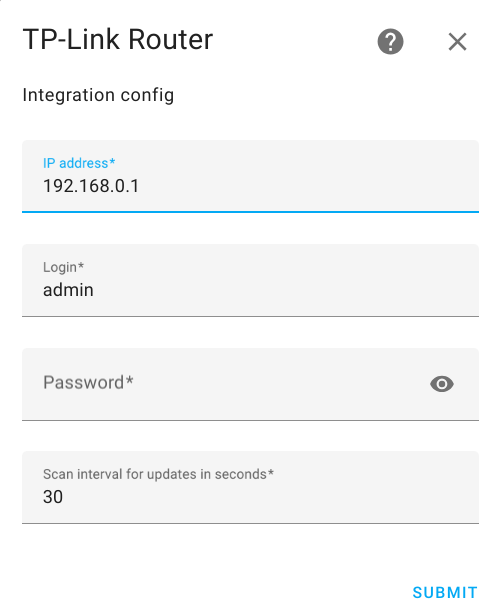
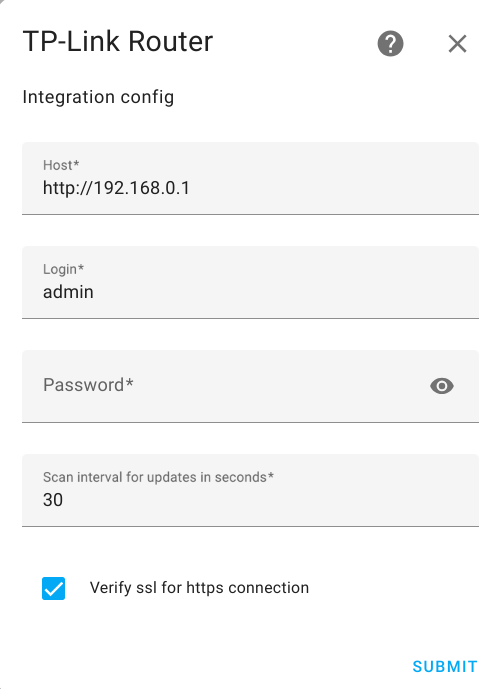
added CPU and RAM sensors

diff --git a/custom_components/tplink_router/switch.py b/custom_components/tplink_router/switch.py
@@ -10,13 +10,13 @@ from homeassistant.helpers.entity_platform import AddEntitiesCallback
 from .const import DOMAIN
 from homeassistant.helpers.update_coordinator import CoordinatorEntity
 from .coordinator import TPLinkRouterCoordinator
-from tplinkrouterc6u import TplinkRouter, Wifi, Status
+from tplinkrouterc6u import Wifi, Status
 from homeassistant.helpers.device_registry import DeviceInfo
 
 
 @dataclass
 class TPLinkRouterSwitchEntityDescriptionMixin:
-    method: Callable[[TplinkRouter, bool], Any]
+    method: Callable[[TPLinkRouterCoordinator, bool], Any]
     property: str
 
 
@@ -32,7 +32,7 @@ SWITCH_TYPES = (
         icon="mdi:wifi",
         entity_category=EntityCategory.CONFIG,
         property='guest_2g_enable',
-        method=lambda router, value: router.set_wifi(Wifi.WIFI_GUEST_2G, value),
+        method=lambda coordinator, value: coordinator.set_wifi(Wifi.WIFI_GUEST_2G, value),
     ),
     TPLinkRouterSwitchEntityDescription(
         key="wifi_guest_5g",
@@ -40,7 +40,7 @@ SWITCH_TYPES = (
         icon="mdi:wifi",
         entity_category=EntityCategory.CONFIG,
         property='guest_5g_enable',
-        method=lambda router, value: router.set_wifi(Wifi.WIFI_GUEST_5G, value),
+        method=lambda coordinator, value: coordinator.set_wifi(Wifi.WIFI_GUEST_5G, value),
     ),
     TPLinkRouterSwitchEntityDescription(
         key="wifi_24g",
@@ -48,7 +48,7 @@ SWITCH_TYPES = (
         icon="mdi:wifi",
         entity_category=EntityCategory.CONFIG,
         property='wifi_2g_enable',
-        method=lambda router, value: router.set_wifi(Wifi.WIFI_2G, value),
+        method=lambda coordinator, value: coordinator.set_wifi(Wifi.WIFI_2G, value),
     ),
     TPLinkRouterSwitchEntityDescription(
         key="wifi_5g",
@@ -56,7 +56,7 @@ SWITCH_TYPES = (
         icon="mdi:wifi",
         entity_category=EntityCategory.CONFIG,
         property='wifi_5g_enable',
-        method=lambda router, value: router.set_wifi(Wifi.WIFI_5G, value),
+        method=lambda coordinator, value: coordinator.set_wifi(Wifi.WIFI_5G, value),
     ),
 )
 
@@ -99,12 +99,12 @@ class TPLinkRouterSwitchEntity(
 
     async def async_turn_on(self, **kwargs: Any) -> None:
         """Turn the entity on."""
-        await self.entity_description.method(self.coordinator.router, True)
+        await self.entity_description.method(self.coordinator, True)
         setattr(self.coordinator.status, self.entity_description.property, True)
         self.async_write_ha_state()
 
     async def async_turn_off(self, **kwargs: Any) -> None:
         """Turn the entity off."""
-        await self.entity_description.method(self.coordinator.router, False)
+        await self.entity_description.method(self.coordinator, False)
         setattr(self.coordinator.status, self.entity_description.property, False)
         self.async_write_ha_state()

diff --git a/custom_components/tplink_router/config_flow.py b/custom_components/tplink_router/config_flow.py
@@ -3,21 +3,24 @@ import logging
 
 import voluptuous as vol
 from homeassistant import config_entries
+import homeassistant.helpers.config_validation as cv
 from .const import DOMAIN
 from homeassistant.const import (
     CONF_HOST,
     CONF_PASSWORD,
     CONF_USERNAME,
     CONF_SCAN_INTERVAL,
+    CONF_VERIFY_SSL,
 )
 from tplinkrouterc6u import TplinkRouter
 
 STEP_USER_DATA_SCHEMA = vol.Schema(
     {
-        vol.Required(CONF_HOST, default='192.168.0.1'): str,
-        vol.Required(CONF_USERNAME, default='admin'): str,
-        vol.Required(CONF_PASSWORD): str,
+        vol.Required(CONF_HOST, default='http://192.168.0.1'): str,
+        vol.Required(CONF_USERNAME, default='admin'): cv.string,
+        vol.Required(CONF_PASSWORD): cv.string,
         vol.Required(CONF_SCAN_INTERVAL, default=30): int,
+        vol.Required(CONF_VERIFY_SSL, default=True): cv.boolean,
     }
 )
 
@@ -30,9 +33,15 @@ class ConfigFlow(config_entries.ConfigFlow, domain=DOMAIN):
         """Handle the initial step."""
         errors = {}
         if user_input is not None:
-            router = TplinkRouter(user_input[CONF_HOST],user_input[CONF_PASSWORD], user_input[CONF_USERNAME], _LOGGER)
+            router = TplinkRouter(
+                user_input[CONF_HOST],
+                user_input[CONF_PASSWORD],
+                user_input[CONF_USERNAME],
+                _LOGGER,
+                user_input[CONF_VERIFY_SSL],
+            )
             try:
-                await router.test_connect()
+                await self.hass.async_add_executor_job(router.test_connect)
                 return self.async_create_entry(title=user_input["host"], data=user_input)
             except Exception as error:
                 _LOGGER.error(error)

diff --git a/custom_components/tplink_router/sensor.py b/custom_components/tplink_router/sensor.py
@@ -2,10 +2,12 @@ from dataclasses import dataclass
 from collections.abc import Callable
 from typing import Any
 from homeassistant.components.sensor import (
+    SensorDeviceClass,
     SensorStateClass,
     SensorEntity,
     SensorEntityDescription,
 )
+from homeassistant.const import PERCENTAGE, UnitOfInformation
 from homeassistant.config_entries import ConfigEntry
 from homeassistant.core import HomeAssistant, callback
 from homeassistant.helpers.device_registry import DeviceInfo
@@ -54,6 +56,25 @@ SENSOR_TYPES: tuple[TPLinkRouterSensorEntityDescription, ...] = (
         icon="mdi:account-multiple",
         state_class=SensorStateClass.TOTAL,
         value=lambda status: status.clients_total,
+    ),
+    TPLinkRouterSensorEntityDescription(
+        key="cpu_used",
+        name="CPU used",
+        icon="mdi:cpu-64-bit",
+        state_class=SensorStateClass.MEASUREMENT,
+        native_unit_of_measurement=PERCENTAGE,
+        suggested_display_precision=1,
+        value=lambda status: (status.cpu_usage * 100) if status.cpu_usage >= 0 else 0,
+    ),
+    TPLinkRouterSensorEntityDescription(
+        key="memory_used",
+        name="Memory used",
+        icon="mdi:memory",
+        native_unit_of_measurement=UnitOfInformation.MEGABYTES,
+        device_class=SensorDeviceClass.DATA_SIZE,
+        state_class=SensorStateClass.MEASUREMENT,
+        suggested_display_precision=2,
+        value=lambda status: status.mem_usage,
     ),
 )
 

diff --git a/custom_components/tplink_router/button.py b/custom_components/tplink_router/button.py
@@ -16,13 +16,12 @@ from homeassistant.helpers.entity_platform import AddEntitiesCallback
 from homeassistant.helpers.update_coordinator import CoordinatorEntity
 from .const import DOMAIN
 from .coordinator import TPLinkRouterCoordinator
-from tplinkrouterc6u import TplinkRouter
 from homeassistant.helpers.device_registry import DeviceInfo
 
 
 @dataclass
 class TPLinkRouterButtonEntityDescriptionMixin:
-    method: Callable[[TplinkRouter], Any]
+    method: Callable[[TPLinkRouterCoordinator], Any]
 
 
 @dataclass
@@ -38,7 +37,7 @@ BUTTON_TYPES = (
         name="Reboot",
         device_class=ButtonDeviceClass.RESTART,
         entity_category=EntityCategory.CONFIG,
-        method=lambda router: router.reboot(),
+        method=lambda coordinator: coordinator.reboot(),
     ),
 )
 
@@ -74,4 +73,4 @@ class TPLinkRouterButtonEntity(CoordinatorEntity[TPLinkRouterCoordinator], Butto
 
     async def async_press(self) -> None:
         """Execute the button action."""
-        await self.entity_description.method(self.coordinator.router)
+        await self.entity_description.method(self.coordinator)

diff --git a/custom_components/tplink_router/__init__.py b/custom_components/tplink_router/__init__.py
@@ -3,6 +3,7 @@ from homeassistant.const import (
     CONF_PASSWORD,
     CONF_USERNAME,
     CONF_SCAN_INTERVAL,
+    CONF_VERIFY_SSL,
     Platform,
 )
 from homeassistant.core import HomeAssistant
@@ -27,10 +28,13 @@ async def async_setup_entry(hass: HomeAssistant, config_entry: ConfigEntry) -> b
 
     # Construct the device
     host = config_entry.data[CONF_HOST]
+    if not (host.startswith('http://') or host.startswith('https://')):
+        host = "http://{}".format(host)
     password = config_entry.data[CONF_PASSWORD]
     username = config_entry.data[CONF_USERNAME]
-    device = TplinkRouter(host, password, username, _LOGGER)
-    info = await device.get_full_info()
+    verify_ssl = config_entry.data[CONF_VERIFY_SSL] if CONF_VERIFY_SSL in config_entry.data else True
+    device = TplinkRouter(host, password, username, _LOGGER, verify_ssl)
+    info = await hass.async_add_executor_job(device.get_full_info)
 
     # Create device coordinator and fetch data
     coord = TPLinkRouterCoordinator(hass, device, config_entry.data[CONF_SCAN_INTERVAL], info, _LOGGER)

diff --git a/custom_components/tplink_router/coordinator.py b/custom_components/tplink_router/coordinator.py
@@ -1,6 +1,6 @@
 from datetime import timedelta
 from homeassistant.helpers.update_coordinator import DataUpdateCoordinator
-from tplinkrouterc6u import TplinkRouter, Firmware, Status
+from tplinkrouterc6u import TplinkRouter, Firmware, Status, Wifi
 from homeassistant.core import HomeAssistant
 from homeassistant.helpers.device_registry import CONNECTION_NETWORK_MAC, DeviceInfo
 from .const import DOMAIN
@@ -36,6 +36,12 @@ class TPLinkRouterCoordinator(DataUpdateCoordinator):
             update_interval=timedelta(seconds=update_interval),
         )
 
+    async def reboot(self) -> None:
+        await self.hass.async_add_executor_job(self.router.reboot)
+
+    async def set_wifi(self, wifi: Wifi, enable: bool) -> None:
+        await self.hass.async_add_executor_job(self.router.set_wifi, wifi, enable)
+
     async def _async_update_data(self):
         """Asynchronous update of all data."""
-        self.status = await self.router.get_status()
+        self.status = await self.hass.async_add_executor_job(self.router.get_status)

diff --git a/README.md b/README.md
@@ -3,7 +3,7 @@ Home Assistant component for TP-Link router administration based on the [TP-Link
 
 See [Supported routers](#supports)
 
-<img src="https://raw.githubusercontent.com/AlexandrErohin/home-assistant-tplink-router/master/docs/media/sensor.png" width="48%"> <img src="https://raw.githubusercontent.com/AlexandrErohin/home-assistant-tplink-router/master/docs/media/switch.png" width="48%">
+<img src="https://raw.githubusercontent.com/AlexandrErohin/home-assistant-tplink-router/master/docs/media/sensors.png" width="70%">
 
 ## Components
 ### Switches
@@ -18,6 +18,8 @@ See [Supported routers](#supports)
  - Total amount of main wifi clients
  - Total amount of guest wifi clients
  - Total amount of all connected clients
+ - CPU used
+ - Memory used
 
 ### Device Tracker
  - Track clients by MAC address across 2.4Ghz, 5Ghz guest and main wifi with connection information
@@ -45,22 +47,24 @@ Have [HACS](https://hacs.xyz/) installed, this will allow you to update easily.
 ## Configuration
 TP-Link Router is configured via the GUI. See [the HA docs](https://www.home-assistant.io/getting-started/integration/) for more details.
 
-The default data is preset already
+The default data is preset already.
+
+If you use `https` connection to your router you may get error `certificate verify failed: EE certificate key too weak`. To fix this - unset `Verify ssl`
 
 <img src="https://raw.githubusercontent.com/AlexandrErohin/home-assistant-tplink-router/master/docs/media/config_flow.png" width="48%">
 
 1. Go to the <b>Settings</b>-><b>Devices & services</b>.
 2. Click on `+ ADD INTEGRATION`, search for `TP-Link Router`.
-3. Fill IP address and Password.
+3. Fill Password.
 4. Click `SUBMIT`
 
 ## <a id="supports">Supported routers</a>
-### Fully tested
-- Archer AX10
-- Archer C6
-- Archer C6U
+### Fully tested Hardware Versions
+- Archer AX10 v1.0
+- Archer C6 v2.0
+- Archer C6U v1.0
 
-### Not fully tested
+### Not fully tested Hardware Versions
 - AD7200 V2
 - Archer A6 (V2 and V3)
 - Archer A7 V5
@@ -68,7 +72,7 @@ The default data is preset already
 - Archer A10 (V1 and V2)
 - Archer A20 (V1, V3)
 - Archer AX50 V1
-- Archer AX3000 V1 (V2 - should work, but not have been tested)
+- Archer AX3000 V1
 - Archer AX6000 V1
 - Archer C6 V4
 - Archer C7 (V4 and V5)
